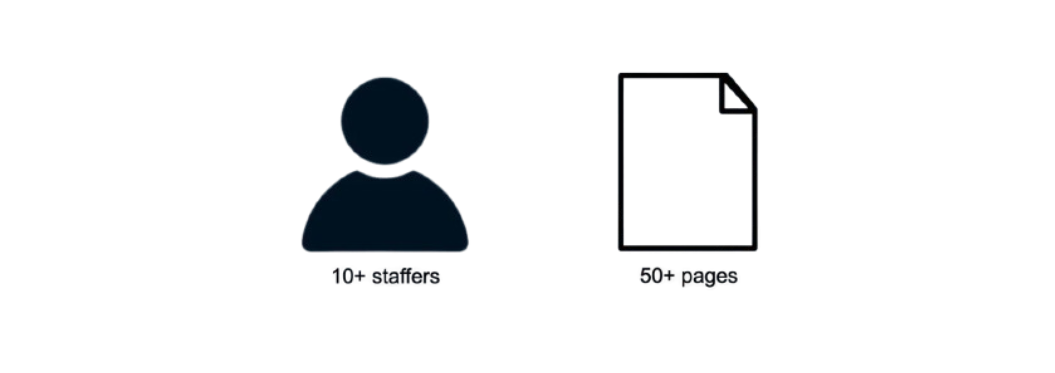
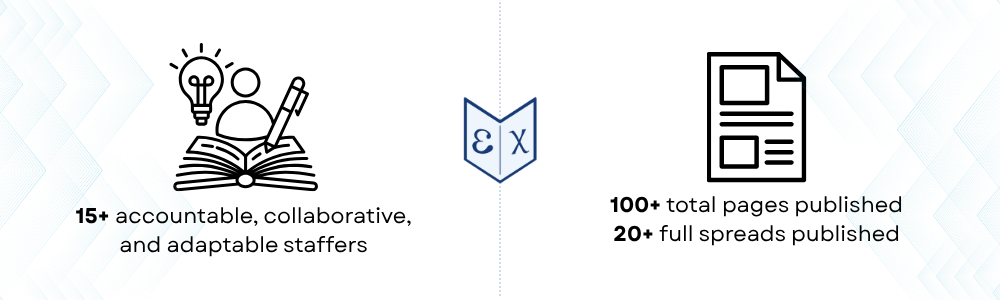
Made math symbol background oriented with MathJax for readability, and changed the About Us page picture. TODO: still waiting on new descriptions for About Us

Changed region(s): [[0.062, 0.15, 0.899, 0.84], [0.992, 0.96, 1.0, 1.0], [0.186, 0.15, 0.217, 0.21]]

diff --git a/apply.html b/apply.html
@@ -7,6 +7,8 @@
   <title>Apply - MathEXplained Magazine</title>
   <link rel="icon" href="favicon.ico" type="image/x-icon">
   <link rel="stylesheet" href="style.css">
+
+  <script src="https://cdn.jsdelivr.net/npm/mathjax@3/es5/tex-mml-chtml.js" id="MathJax-script" async></script>
 </head>
 
 <body class="apply-page with-header-gap">
@@ -86,7 +88,19 @@
   <div class="math-bg-layer" aria-hidden="true"></div>
   <script>
   (function(){
-    var symbols=["π","e","i","∞","Σ","∫","√","dx","Δ","∇","α","β","γ","λ","μ","θ","φ","ψ","∅", "∈", "Ω","f(x)","n!","x²","2πr","πr²","a²+b²=c²","lim","log n","P(A|B)","det(A)","∮","mod p","C(n,k)","gcd","lcm","ℕ", "ℤ", "ℚ", "ℝ", "ℂ", "ℙ", "ℍ","σ²","E[X]","Var(X)","sin²+cos²=1","=", "≠", "≈", "≅", "≃", "≤", "≥","d/dx","ax²+bx+c","y=mx+b","e^{iπ}+1=0"];
+    const symbols = [
+  "$\\pi$", "$e$", "$i$", "$\\infty$", "$\\Sigma$", "$\\int$", "$\\sqrt{}$", 
+  "$dx$", "$\\Delta$", "$\\nabla$", "$\\alpha$", "$\\beta$", "$\\gamma$", 
+  "$\\lambda$", "$\\mu$", "$\\theta$", "$\\varphi$", "$\\psi$", "$\\emptyset$", 
+  "$\\in$", "$\\Omega$", "$f(x)$", "$n!$", "$x^2$", "$2\\pi r$", "$\\pi r^2$", 
+  "$a^2+b^2=c^2$", "$\\lim$", "$\\log n$", "$P(A|B)$", "$\\det(A)$", 
+  "$\\oint$", "$\\bmod p$", "$C(n,k)$", "$\\gcd$", "$\\operatorname{lcm}$", 
+  "$\\mathbb{N}$", "$\\mathbb{Z}$", "$\\mathbb{Q}$", "$\\mathbb{R}$", 
+  "$\\mathbb{C}$", "$\\mathbb{P}$", "$\\mathbb{H}$", "$\\sigma^2$", 
+  "$E[X]$", "$\\operatorname{Var}(X)$", "$\\sin^2+\\cos^2=1$", "$=$", 
+  "$\\neq$", "$\\approx$", "$\\cong$", "$\\simeq$", "$\\leq$", "$\\geq$", 
+  "$\\frac{d}{dx}$", "$ax^2+bx+c$", "$y=mx+b$", "$e^{i\\pi}+1=0$"
+];
     var layer=document.querySelector(".math-bg-layer");
     if(!layer)return;
     for(var k=0;k<58;k++){
@@ -103,6 +117,23 @@
         layer.appendChild(el);
       })(k+Math.floor(Math.random()*symbols.length));
     }
+    function renderSymbolsWhenReady(){
+      var s = document.getElementById('MathJax-script');
+      function renderAll(){
+        var els = layer.querySelectorAll('.math-symbol');
+        els.forEach(function(el){
+          var tex = (el.textContent||'').trim();
+          if (tex.startsWith('$') && tex.endsWith('$')) tex = tex.slice(1,-1);
+          if (!tex) return;
+          if (window.MathJax && MathJax.tex2chtmlPromise) {
+            MathJax.tex2chtmlPromise(tex, {display:false}).then(function(node){ el.innerHTML=''; el.appendChild(node); }).catch(function(){ /* leave raw */ });
+          }
+        });
+      }
+      if (window.MathJax && MathJax.tex2chtmlPromise) renderAll();
+      else if (s) s.addEventListener('load', renderAll);
+    }
+    renderSymbolsWhenReady();
   })();
   </script>
   <div class="announcement-banner">📣 Join our Google Group for exclusive email updates! <a href="https://groups.google.com/g/mathexplained-magazine-releases" target="_blank">Learn more...</a></div>

diff --git a/about_us.html b/about_us.html
@@ -7,6 +7,7 @@
   <title>About Us - MathEXplained Magazine</title>
   <link rel="icon" href="favicon.ico" type="image/x-icon">
   <link rel="stylesheet" href="style.css">
+  <script src="https://cdn.jsdelivr.net/npm/mathjax@3/es5/tex-mml-chtml.js" id="MathJax-script" async></script>
 </head>
 
 <body class="about-page with-header-gap">
@@ -86,7 +87,19 @@
   <div class="math-bg-layer" aria-hidden="true"></div>
   <script>
   (function(){
-    var symbols=["π","e","i","∞","Σ","∫","√","dx","Δ","∇","α","β","γ","λ","μ","θ","φ","ψ","∅", "∈", "Ω","f(x)","n!","x²","2πr","πr²","a²+b²=c²","lim","log n","P(A|B)","det(A)","∮","mod p","C(n,k)","gcd","lcm","ℕ", "ℤ", "ℚ", "ℝ", "ℂ", "ℙ", "ℍ","σ²","E[X]","Var(X)","sin²+cos²=1","=", "≠", "≈", "≅", "≃", "≤", "≥","d/dx","ax²+bx+c","y=mx+b","e^{iπ}+1=0"];
+    const symbols = [
+  "$\\pi$", "$e$", "$i$", "$\\infty$", "$\\Sigma$", "$\\int$", "$\\sqrt{}$", 
+  "$dx$", "$\\Delta$", "$\\nabla$", "$\\alpha$", "$\\beta$", "$\\gamma$", 
+  "$\\lambda$", "$\\mu$", "$\\theta$", "$\\varphi$", "$\\psi$", "$\\emptyset$", 
+  "$\\in$", "$\\Omega$", "$f(x)$", "$n!$", "$x^2$", "$2\\pi r$", "$\\pi r^2$", 
+  "$a^2+b^2=c^2$", "$\\lim$", "$\\log n$", "$P(A|B)$", "$\\det(A)$", 
+  "$\\oint$", "$\\bmod p$", "$C(n,k)$", "$\\gcd$", "$\\operatorname{lcm}$", 
+  "$\\mathbb{N}$", "$\\mathbb{Z}$", "$\\mathbb{Q}$", "$\\mathbb{R}$", 
+  "$\\mathbb{C}$", "$\\mathbb{P}$", "$\\mathbb{H}$", "$\\sigma^2$", 
+  "$E[X]$", "$\\operatorname{Var}(X)$", "$\\sin^2+\\cos^2=1$", "$=$", 
+  "$\\neq$", "$\\approx$", "$\\cong$", "$\\simeq$", "$\\leq$", "$\\geq$", 
+  "$\\frac{d}{dx}$", "$ax^2+bx+c$", "$y=mx+b$", "$e^{i\\pi}+1=0$"
+];
     var layer=document.querySelector(".math-bg-layer");
     if(!layer)return;
     for(var k=0;k<58;k++){
@@ -103,6 +116,23 @@
         layer.appendChild(el);
       })(k+Math.floor(Math.random()*symbols.length));
     }
+    function renderSymbolsWhenReady(){
+      var s = document.getElementById('MathJax-script');
+      function renderAll(){
+        var els = layer.querySelectorAll('.math-symbol');
+        els.forEach(function(el){
+          var tex = (el.textContent||'').trim();
+          if (tex.startsWith('$') && tex.endsWith('$')) tex = tex.slice(1,-1);
+          if (!tex) return;
+          if (window.MathJax && MathJax.tex2chtmlPromise) {
+            MathJax.tex2chtmlPromise(tex, {display:false}).then(function(node){ el.innerHTML=''; el.appendChild(node); }).catch(function(){ /* leave raw */ });
+          }
+        });
+      }
+      if (window.MathJax && MathJax.tex2chtmlPromise) renderAll();
+      else if (s) s.addEventListener('load', renderAll);
+    }
+    renderSymbolsWhenReady();
   })();
   </script>
   <div class="announcement-banner">📣 Join our Google Group for exclusive email updates! <a href="https://groups.google.com/g/mathexplained-magazine-releases" target="_blank">Learn more...</a></div>

diff --git a/index.html b/index.html
@@ -7,6 +7,7 @@
   <title>MathEXplained Magazine</title>
   <link rel="icon" href="favicon.ico" type="image/x-icon">
   <link rel="stylesheet" href="style.css">
+  <script src="https://cdn.jsdelivr.net/npm/mathjax@3/es5/tex-mml-chtml.js" id="MathJax-script" async></script>
 </head>
 
 <body class="index-page with-header-gap">
@@ -86,7 +87,19 @@
   <div class="math-bg-layer" aria-hidden="true"></div>
   <script>
   (function(){
-    var symbols=["π","e","i","∞","Σ","∫","√","dx","Δ","∇","α","β","γ","λ","μ","θ","φ","ψ","∅", "∈", "Ω","f(x)","n!","x²","2πr","πr²","a²+b²=c²","lim","log n","P(A|B)","det(A)","∮","mod p","C(n,k)","gcd","lcm","ℕ", "ℤ", "ℚ", "ℝ", "ℂ", "ℙ", "ℍ","σ²","E[X]","Var(X)","sin²+cos²=1","=", "≠", "≈", "≅", "≃", "≤", "≥","d/dx","ax²+bx+c","y=mx+b","e^{iπ}+1=0"];
+    const symbols = [
+  "$\\pi$", "$e$", "$i$", "$\\infty$", "$\\Sigma$", "$\\int$", "$\\sqrt{}$", 
+  "$dx$", "$\\Delta$", "$\\nabla$", "$\\alpha$", "$\\beta$", "$\\gamma$", 
+  "$\\lambda$", "$\\mu$", "$\\theta$", "$\\varphi$", "$\\psi$", "$\\emptyset$", 
+  "$\\in$", "$\\Omega$", "$f(x)$", "$n!$", "$x^2$", "$2\\pi r$", "$\\pi r^2$", 
+  "$a^2+b^2=c^2$", "$\\lim$", "$\\log n$", "$P(A|B)$", "$\\det(A)$", 
+  "$\\oint$", "$\\bmod p$", "$C(n,k)$", "$\\gcd$", "$\\operatorname{lcm}$", 
+  "$\\mathbb{N}$", "$\\mathbb{Z}$", "$\\mathbb{Q}$", "$\\mathbb{R}$", 
+  "$\\mathbb{C}$", "$\\mathbb{P}$", "$\\mathbb{H}$", "$\\sigma^2$", 
+  "$E[X]$", "$\\operatorname{Var}(X)$", "$\\sin^2+\\cos^2=1$", "$=$", 
+  "$\\neq$", "$\\approx$", "$\\cong$", "$\\simeq$", "$\\leq$", "$\\geq$", 
+  "$\\frac{d}{dx}$", "$ax^2+bx+c$", "$y=mx+b$", "$e^{i\\pi}+1=0$"
+];
     var layer=document.querySelector(".math-bg-layer");
     if(!layer)return;
     for(var k=0;k<58;k++){
@@ -103,6 +116,23 @@
         layer.appendChild(el);
       })(k+Math.floor(Math.random()*symbols.length));
     }
+    function renderSymbolsWhenReady(){
+      var s = document.getElementById('MathJax-script');
+      function renderAll(){
+        var els = layer.querySelectorAll('.math-symbol');
+        els.forEach(function(el){
+          var tex = (el.textContent||'').trim();
+          if (tex.startsWith('$') && tex.endsWith('$')) tex = tex.slice(1,-1);
+          if (!tex) return;
+          if (window.MathJax && MathJax.tex2chtmlPromise) {
+            MathJax.tex2chtmlPromise(tex, {display:false}).then(function(node){ el.innerHTML=''; el.appendChild(node); }).catch(function(){ /* leave raw */ });
+          }
+        });
+      }
+      if (window.MathJax && MathJax.tex2chtmlPromise) renderAll();
+      else if (s) s.addEventListener('load', renderAll);
+    }
+    renderSymbolsWhenReady();
   })();
   </script>
   <div class="announcement-banner">📣 Join our Google Group for exclusive email updates! <a href="https://groups.google.com/g/mathexplained-magazine-releases" target="_blank">Learn more...</a></div>

diff --git a/staff.html b/staff.html
@@ -7,6 +7,7 @@
   <title>Our Staff - MathEXplained Magazine</title>
   <link rel="icon" href="favicon.ico" type="image/x-icon">
   <link rel="stylesheet" href="style.css">
+  <script src="https://cdn.jsdelivr.net/npm/mathjax@3/es5/tex-mml-chtml.js" id="MathJax-script" async></script>
 </head>
 
 <body class="staff-page with-header-gap">
@@ -86,7 +87,19 @@
   <div class="math-bg-layer" aria-hidden="true"></div>
   <script>
   (function(){
-    var symbols=["π","e","i","∞","Σ","∫","√","dx","Δ","∇","α","β","γ","λ","μ","θ","φ","ψ","∅", "∈", "Ω","f(x)","n!","x²","2πr","πr²","a²+b²=c²","lim","log n","P(A|B)","det(A)","∮","mod p","C(n,k)","gcd","lcm","ℕ", "ℤ", "ℚ", "ℝ", "ℂ", "ℙ", "ℍ","σ²","E[X]","Var(X)","sin²+cos²=1","=", "≠", "≈", "≅", "≃", "≤", "≥","d/dx","ax²+bx+c","y=mx+b","e^{iπ}+1=0"];
+    const symbols = [
+  "$\\pi$", "$e$", "$i$", "$\\infty$", "$\\Sigma$", "$\\int$", "$\\sqrt{}$", 
+  "$dx$", "$\\Delta$", "$\\nabla$", "$\\alpha$", "$\\beta$", "$\\gamma$", 
+  "$\\lambda$", "$\\mu$", "$\\theta$", "$\\varphi$", "$\\psi$", "$\\emptyset$", 
+  "$\\in$", "$\\Omega$", "$f(x)$", "$n!$", "$x^2$", "$2\\pi r$", "$\\pi r^2$", 
+  "$a^2+b^2=c^2$", "$\\lim$", "$\\log n$", "$P(A|B)$", "$\\det(A)$", 
+  "$\\oint$", "$\\bmod p$", "$C(n,k)$", "$\\gcd$", "$\\operatorname{lcm}$", 
+  "$\\mathbb{N}$", "$\\mathbb{Z}$", "$\\mathbb{Q}$", "$\\mathbb{R}$", 
+  "$\\mathbb{C}$", "$\\mathbb{P}$", "$\\mathbb{H}$", "$\\sigma^2$", 
+  "$E[X]$", "$\\operatorname{Var}(X)$", "$\\sin^2+\\cos^2=1$", "$=$", 
+  "$\\neq$", "$\\approx$", "$\\cong$", "$\\simeq$", "$\\leq$", "$\\geq$", 
+  "$\\frac{d}{dx}$", "$ax^2+bx+c$", "$y=mx+b$", "$e^{i\\pi}+1=0$"
+];
     var layer=document.querySelector(".math-bg-layer");
     if(!layer)return;
     for(var k=0;k<58;k++){
@@ -103,6 +116,23 @@
         layer.appendChild(el);
       })(k+Math.floor(Math.random()*symbols.length));
     }
+    function renderSymbolsWhenReady(){
+      var s = document.getElementById('MathJax-script');
+      function renderAll(){
+        var els = layer.querySelectorAll('.math-symbol');
+        els.forEach(function(el){
+          var tex = (el.textContent||'').trim();
+          if (tex.startsWith('$') && tex.endsWith('$')) tex = tex.slice(1,-1);
+          if (!tex) return;
+          if (window.MathJax && MathJax.tex2chtmlPromise) {
+            MathJax.tex2chtmlPromise(tex, {display:false}).then(function(node){ el.innerHTML=''; el.appendChild(node); }).catch(function(){ /* leave raw */ });
+          }
+        });
+      }
+      if (window.MathJax && MathJax.tex2chtmlPromise) renderAll();
+      else if (s) s.addEventListener('load', renderAll);
+    }
+    renderSymbolsWhenReady();
   })();
   </script>
   <div class="announcement-banner">📣 Join our Google Group for exclusive email updates! <a href="https://groups.google.com/g/mathexplained-magazine-releases" target="_blank">Learn more...</a></div>

diff --git a/crossword.html b/crossword.html
@@ -89,7 +89,19 @@
   <div class="math-bg-layer" aria-hidden="true"></div>
   <script>
   (function(){
-    var symbols=["π","e","i","∞","Σ","∫","√","dx","Δ","∇","α","β","γ","λ","μ","θ","φ","ψ","∅", "∈", "Ω","f(x)","n!","x²","2πr","πr²","a²+b²=c²","lim","log n","P(A|B)","det(A)","∮","mod p","C(n,k)","gcd","lcm","ℕ", "ℤ", "ℚ", "ℝ", "ℂ", "ℙ", "ℍ","σ²","E[X]","Var(X)","sin²+cos²=1","=", "≠", "≈", "≅", "≃", "≤", "≥","d/dx","ax²+bx+c","y=mx+b","e^{iπ}+1=0"];
+    const symbols = [
+  "$\\pi$", "$e$", "$i$", "$\\infty$", "$\\Sigma$", "$\\int$", "$\\sqrt{}$", 
+  "$dx$", "$\\Delta$", "$\\nabla$", "$\\alpha$", "$\\beta$", "$\\gamma$", 
+  "$\\lambda$", "$\\mu$", "$\\theta$", "$\\varphi$", "$\\psi$", "$\\emptyset$", 
+  "$\\in$", "$\\Omega$", "$f(x)$", "$n!$", "$x^2$", "$2\\pi r$", "$\\pi r^2$", 
+  "$a^2+b^2=c^2$", "$\\lim$", "$\\log n$", "$P(A|B)$", "$\\det(A)$", 
+  "$\\oint$", "$\\bmod p$", "$C(n,k)$", "$\\gcd$", "$\\operatorname{lcm}$", 
+  "$\\mathbb{N}$", "$\\mathbb{Z}$", "$\\mathbb{Q}$", "$\\mathbb{R}$", 
+  "$\\mathbb{C}$", "$\\mathbb{P}$", "$\\mathbb{H}$", "$\\sigma^2$", 
+  "$E[X]$", "$\\operatorname{Var}(X)$", "$\\sin^2+\\cos^2=1$", "$=$", 
+  "$\\neq$", "$\\approx$", "$\\cong$", "$\\simeq$", "$\\leq$", "$\\geq$", 
+  "$\\frac{d}{dx}$", "$ax^2+bx+c$", "$y=mx+b$", "$e^{i\\pi}+1=0$"
+];
     var layer=document.querySelector(".math-bg-layer");
     if(!layer)return;
     for(var k=0;k<58;k++){
@@ -106,6 +118,23 @@
         layer.appendChild(el);
       })(k+Math.floor(Math.random()*symbols.length));
     }
+    function renderSymbolsWhenReady(){
+      var s = document.getElementById('MathJax-script');
+      function renderAll(){
+        var els = layer.querySelectorAll('.math-symbol');
+        els.forEach(function(el){
+          var tex = (el.textContent||'').trim();
+          if (tex.startsWith('$') && tex.endsWith('$')) tex = tex.slice(1,-1);
+          if (!tex) return;
+          if (window.MathJax && MathJax.tex2chtmlPromise) {
+            MathJax.tex2chtmlPromise(tex, {display:false}).then(function(node){ el.innerHTML=''; el.appendChild(node); }).catch(function(){ /* leave raw */ });
+          }
+        });
+      }
+      if (window.MathJax && MathJax.tex2chtmlPromise) renderAll();
+      else if (s) s.addEventListener('load', renderAll);
+    }
+    renderSymbolsWhenReady();
   })();
   </script>
   <div class="announcement-banner">📣 This page is a work in progress!</div>